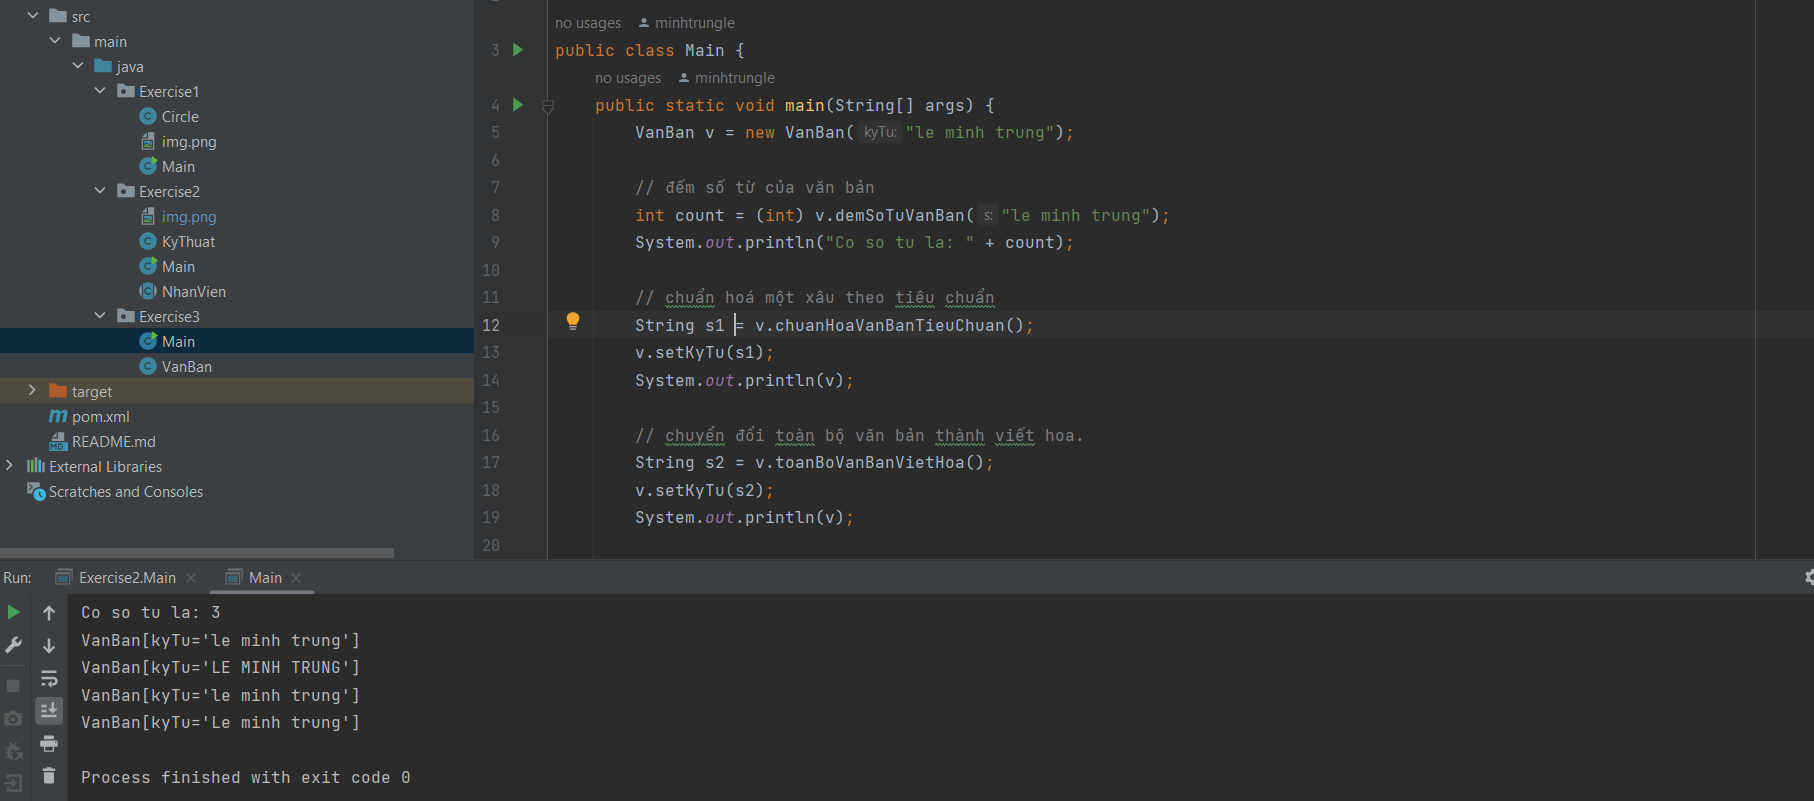
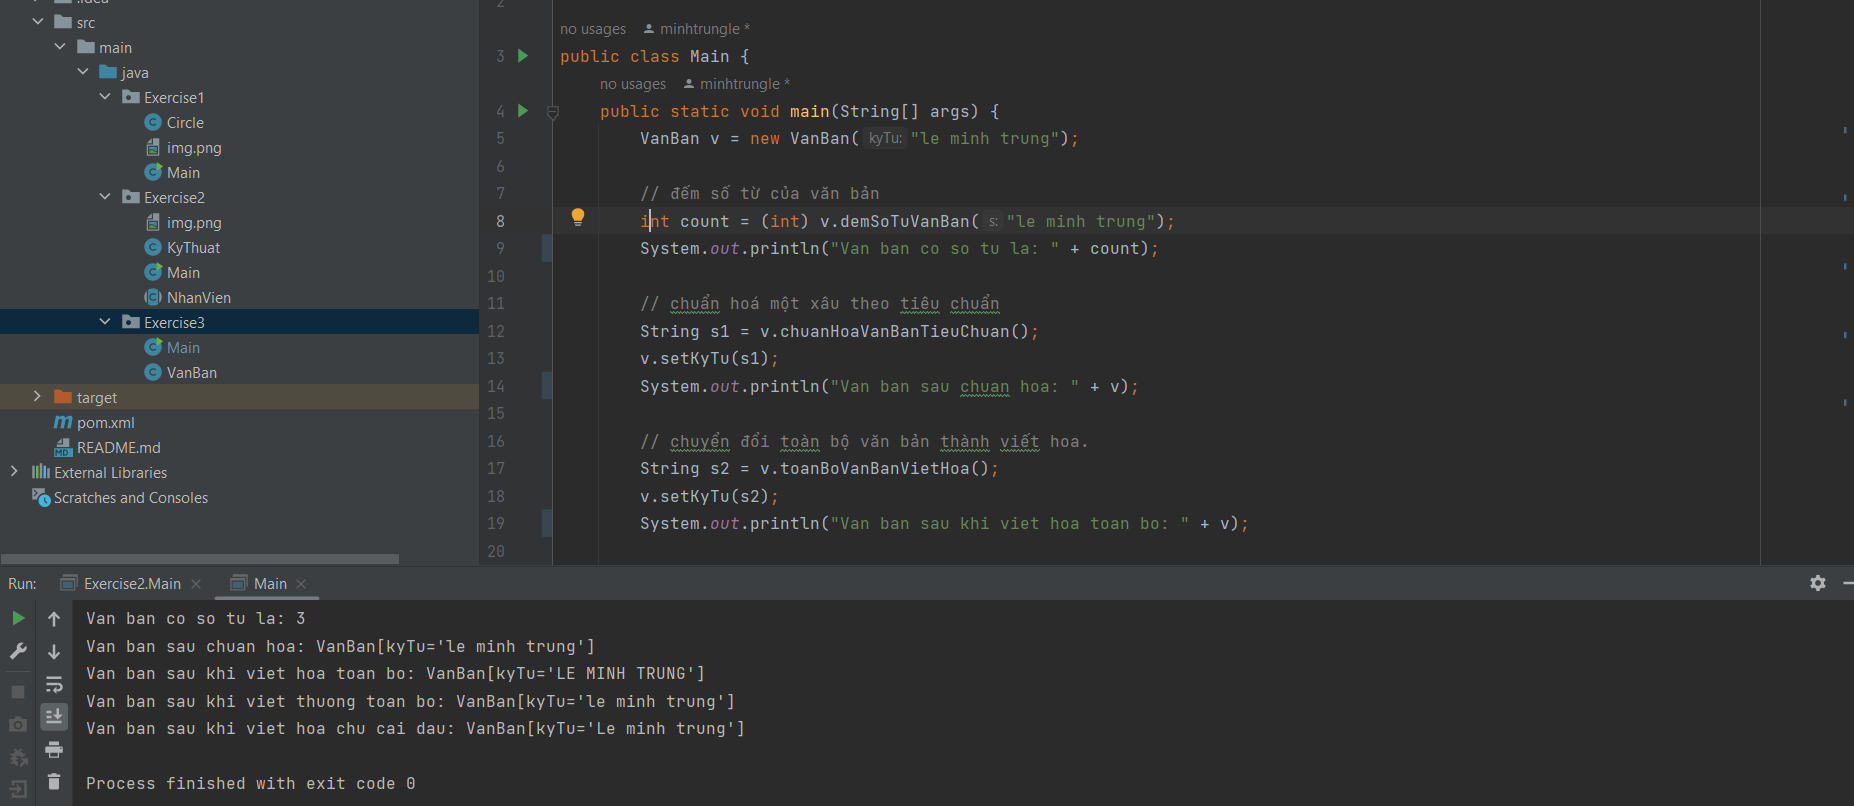
Update Ex2, 3

diff --git a/src/main/java/Exercise3/Main.java b/src/main/java/Exercise3/Main.java
@@ -6,27 +6,27 @@ public class Main {
 
         // đếm số từ của văn bản
         int count = (int) v.demSoTuVanBan("le minh trung");
-        System.out.println("Co so tu la: " + count);
+        System.out.println("Van ban co so tu la: " + count);
 
         // chuẩn hoá một xâu theo tiêu chuẩn
         String s1 = v.chuanHoaVanBanTieuChuan();
         v.setKyTu(s1);
-        System.out.println(v);
+        System.out.println("Van ban sau chuan hoa: " + v);
 
         // chuyển đổi toàn bộ văn bản thành viết hoa.
         String s2 = v.toanBoVanBanVietHoa();
         v.setKyTu(s2);
-        System.out.println(v);
+        System.out.println("Van ban sau khi viet hoa toan bo: " + v);
 
         // chuyển đổi toàn bộ văn bản thành viết thường.
         String s3 = v.toanBoVanBanVietThuong();
         v.setKyTu(s3);
-        System.out.println(v);
+        System.out.println("Van ban sau khi viet thuong toan bo: " + v);
 
         // viết hoa chữ cái đầu tiên của mỗi từ trong văn bản.
         String s4 = v.vietHoaChuCaiDau("le minh trung");
         v.setKyTu(s4);
-        System.out.println(v);
+        System.out.println("Van ban sau khi viet hoa chu cai dau: " + v);
     }
 }
 
